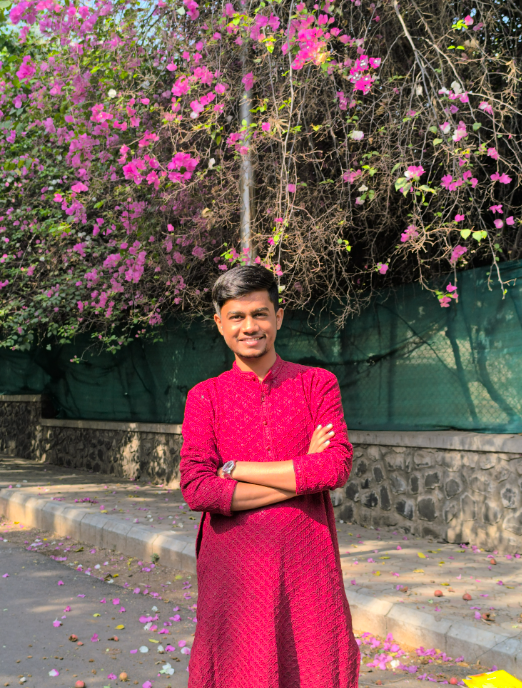
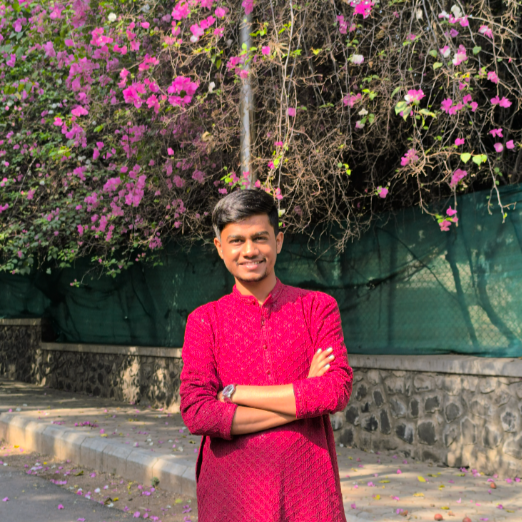
solving issues with UI

diff --git a/about.html b/about.html
@@ -85,8 +85,8 @@
             min-width: 300px;
             color: #111;
             opacity: 0;
-            transform: translateX(-60px);
-            animation: slideInLeft 1.5s ease forwards;
+            transform: translateY(40px);
+            animation: fadeUp 1.2s ease forwards;
             animation-delay: 0.3s;
         }
 
@@ -96,22 +96,15 @@
             align-items: center;
             justify-content: center;
             opacity: 0;
-            transform: translateX(60px);
-            animation: slideInRight 1.5s ease forwards;
+            transform: translateY(40px);
+            animation: fadeUp 1.2s ease forwards;
             animation-delay: 0.6s;
         }
 
-        @keyframes slideInLeft {
+        @keyframes fadeUp {
             to {
                 opacity: 1;
-                transform: translateX(0);
-            }
-        }
-
-        @keyframes slideInRight {
-            to {
-                opacity: 1;
-                transform: translateX(0);
+                transform: translateY(0);
             }
         }
 
@@ -141,12 +134,38 @@
             transition: all 0.25s ease;
             display: inline-block;
             position: relative;
+            opacity: 0;
+            transform: translateY(20px);
+            animation: fadeUp 1.2s ease forwards;
+            animation-delay: 0.4s;
         }
 
         .about-text h1:hover {
-            font-weight: 700;
             letter-spacing: 0.6px;
             transform: translateY(-2px);
+        }
+
+        .about-text h2:hover {
+            letter-spacing: 0.6px;
+            transform: translateY(-2px);
+        }
+
+
+
+
+
+        /* ===== SUB HEADING (Skills) ===== */
+        .about-text h2 {
+            font-family: 'Clash Display', sans-serif;
+            font-size: 1.8rem;
+            font-weight: 600;
+            margin-top: 1.8rem;
+            margin-bottom: 1rem;
+            color: #111;
+            opacity: 0;
+            transform: translateY(20px);
+            animation: fadeUp 1.2s ease forwards;
+            animation-delay: 0.8s;
         }
 
         /* ===== TEXT ===== */
@@ -156,6 +175,10 @@
             line-height: 1.8rem;
             margin-bottom: 1.8rem;
             font-weight: 400;
+            opacity: 0;
+            transform: translateY(20px);
+            animation: fadeUp 1.2s ease forwards;
+            animation-delay: 0.6s;
         }
 
         /* ===== SKILLS ===== */
@@ -164,6 +187,9 @@
             flex-wrap: wrap;
             gap: 0.6rem 0.8rem;
             max-width: 520px;
+            opacity: 0;
+            animation: fadeUp 1.2s ease forwards;
+            animation-delay: 1s;
         }
 
         .skill-tag {
@@ -202,9 +228,6 @@
 
             .about-text,
             .about-photo {
-                opacity: 1;
-                transform: none;
-                animation: none;
                 width: 100%;
                 max-width: 500px;
             }
@@ -227,6 +250,10 @@
 
             .about-text h1 {
                 font-size: 2rem;
+            }
+
+            .about-text h2 {
+                font-size: 1.5rem;
             }
 
             .about-text p {
@@ -280,6 +307,7 @@
                             scalable pipelines and analytical solutions that bridge raw data with actionable insights.
                         </p>
 
+                        <h2>Skills</h2>
                         <div class="skills-highlight">
                             <span class="skill-tag">Machine Learning</span>
                             <span class="skill-tag">Deep Learning</span>
@@ -295,7 +323,7 @@
                     </div>
 
                     <div class="about-photo">
-                        <img src="./assets/Vedant_dhamale.jpg" alt="Vedant Dhamale">
+                        <img src="./assets/image.png" alt="Vedant Dhamale">
                     </div>
                 </section>
 
